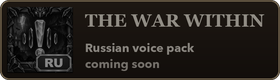
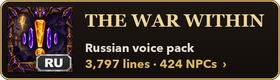
Русский пакет The War Within: карточка, иконка, описание

Changed region(s): [[0.0, 0.0, 1.0, 1.0], [0.2857, 0.525, 0.7143, 0.675]]

diff --git a/curseforge/description-pack-ruRU-TheWarWithin.md b/curseforge/description-pack-ruRU-TheWarWithin.md
@@ -1,6 +1,6 @@
 # Chorus: Russian voice pack — The War Within
 
-Russian voice-over for **all The War Within quests**: 3,803 lines, 424 NPCs.
+Russian voice-over for **all The War Within quests**: 3,797 lines, 424 NPCs.
 
 **Requires [Chorus](https://www.curseforge.com/wow/addons/chorus)**: the core add-on that plays the audio. The CurseForge app installs it automatically.
 
@@ -12,7 +12,7 @@ Works with the **Russian game client** (ruRU). Key characters speak in voices cl
 
 # Chorus: русская озвучка The War Within
 
-Озвучка **всех заданий The War Within** на русском: 3803 реплики, 424 NPC.
+Озвучка **всех заданий The War Within** на русском: 3797 реплик, 424 NPC.
 
 **Нужен аддон [Chorus](https://www.curseforge.com/wow/addons/chorus)**: это ядро, которое проигрывает звук. Приложение CurseForge поставит его само.
 
